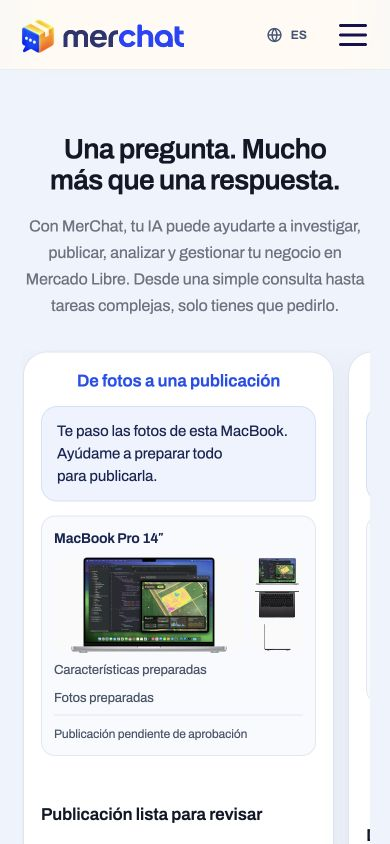
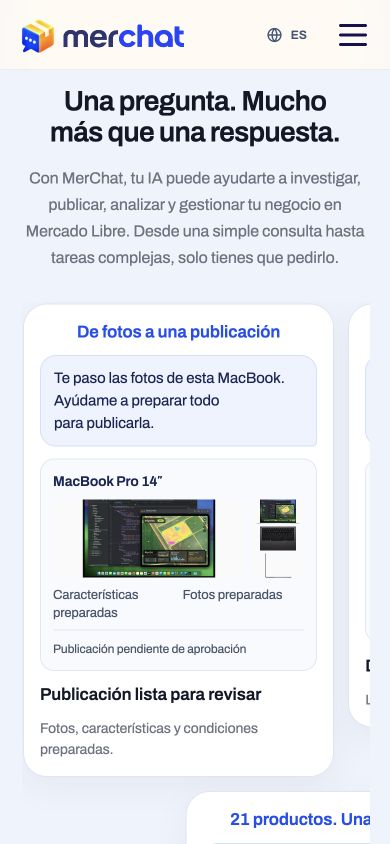
Refine carousel spacing and photo placement

Changed region(s): [[0.0923, 0.4313, 0.9538, 1.0], [0.0615, 0.0924, 0.9538, 0.4005], [0.9231, 0.7701, 0.9538, 0.8009]]

diff --git a/app/globals.css b/app/globals.css
@@ -2419,13 +2419,14 @@ body, main { background: var(--bg); }
 #resultados .section-title { max-width: 30ch; margin-bottom: 18px; }
 #resultados .showcase-intro { max-width: 64ch; margin: 0 auto 36px; text-align: center; font-size: 17px; line-height: 1.65; color: var(--muted); text-wrap: pretty; }
 #resultados .showcase-disclaimer { max-width: 72ch; margin: 22px auto 0; text-align: center; font-size: 14px; line-height: 1.55; color: var(--muted); }
-#resultados .carousel-set { grid-auto-columns: 320px; grid-template-rows: repeat(2, minmax(500px, max-content)); padding-right: 169px; }
-#resultados .carousel-set .example-card { width: 320px; padding: 20px; gap: 16px; }
+#resultados .carousel-set { grid-auto-columns: 320px; grid-template-rows: repeat(2, max-content); padding-right: 169px; }
+#resultados .carousel-set .example-card { width: 320px; min-height: 0; padding: 18px; gap: 12px; }
+#resultados .demo-card { align-self: start; }
 #resultados .demo-card > span { padding: 0; font-size: 17px; font-weight: 600; line-height: 1.35; }
-#resultados .example-bubble { padding: 13px 15px; font-size: 15px; line-height: 1.5; }
-#resultados .demo-card > strong { margin-top: auto; font-size: 17px; line-height: 1.35; }
+#resultados .example-bubble { padding: 11px 13px; font-size: 15px; line-height: 1.5; }
+#resultados .demo-card > strong { margin-top: 0; font-size: 17px; line-height: 1.35; }
 #resultados .demo-card > small { font-size: 14px; line-height: 1.5; color: var(--muted); }
-#resultados .cap-preview { display: flex; flex-direction: column; gap: 12px; padding: 14px; border: 1px solid #E1E7F2; border-radius: 14px; background: #F8FAFE; font-size: 14px; line-height: 1.4; color: #172554; }
+#resultados .cap-preview { display: flex; flex-direction: column; gap: 10px; padding: 12px; border: 1px solid #E1E7F2; border-radius: 14px; background: #F8FAFE; font-size: 14px; line-height: 1.4; color: #172554; }
 #resultados .cap-label { font-size: 14px; font-weight: 600; }
 #resultados .cap-items { display: flex; flex-direction: column; gap: 10px; }
 #resultados .cap-item { display: flex; justify-content: space-between; align-items: baseline; gap: 10px; }
@@ -2454,9 +2455,10 @@ body, main { background: var(--bg); }
 #resultados .cap-range { position: relative; height: 16px; margin: 5px 0; background: #E3EAF7; border-radius: 8px; }
 #resultados .cap-range span { position: absolute; left: 10%; right: 30%; top: 0; bottom: 0; border-radius: 8px; background: #B9CEF9; }
 #resultados .cap-range i { position: absolute; left: 87%; top: -4px; height: 24px; width: 3px; border-radius: 2px; background: var(--blue); }
-#resultados .cap-bars { height: 50px; display: flex; align-items: end; gap: 10px; border-bottom: 1px solid #CCD7EB; }
-#resultados .cap-bars i { flex: 1; border-radius: 4px 4px 0 0; background: #AFC6F6; }
-#resultados .cap-bars i:nth-child(4) { background: var(--blue); }
+#resultados .cap-ad-chart { display: grid; grid-template-columns: 1fr 1fr; gap: 5px; font-size: 11px; color: #475569; font-variant-numeric: tabular-nums; }
+#resultados .cap-ad-chart > div { grid-column: 1 / -1; height: 12px; border-radius: 4px; background: #DEE7F7; overflow: hidden; }
+#resultados .cap-ad-chart i { display: block; height: 100%; background: var(--blue); border-radius: 4px; }
+#resultados .cap-ad-chart > span:last-child { text-align: right; }
 #resultados .cap-stock { height: 8px; background: #E4EAF4; border-radius: 6px; overflow: hidden; }
 #resultados .cap-stock span { display: block; width: 21%; height: 100%; background: #D97706; }
 #resultados .cap-product-main { width: 100%; height: 100px; object-fit: cover; border-radius: 9px; }
@@ -2473,8 +2475,8 @@ body, main { background: var(--bg); }
 #resultados .example-photo .photo-overlay strong { font-size: 23px; line-height: 1.25; }
 #resultados .carousel-arrow:focus-visible, #resultados .dots button:focus-visible { outline: 3px solid var(--blue); outline-offset: 5px; }
 @media(max-width:640px) {
-  #resultados .carousel-set { grid-auto-columns: calc(88vw - 32px); padding-right: calc(44vw - 9px); grid-template-rows: repeat(2, minmax(500px, max-content)); }
-  #resultados .carousel-set .example-card { width: calc(88vw - 32px); padding: 17px; gap: 14px; }
+  #resultados .carousel-set { grid-auto-columns: calc(88vw - 32px); padding-right: calc(44vw - 9px); grid-template-rows: repeat(2, max-content); }
+  #resultados .carousel-set .example-card { width: calc(88vw - 32px); padding: 16px; gap: 12px; }
   #resultados .showcase-intro { font-size: 16px; margin-bottom: 28px; }
   #resultados .cap-preview { padding: 12px; font-size: 13px; }
   #resultados .cap-accounts .cap-item { padding: 7px; }
@@ -2484,12 +2486,36 @@ body, main { background: var(--bg); }
 #resultados .showcase-carousel { scroll-snap-type: none; }
 #resultados .cap-listing { gap: 8px; }
 #resultados .cap-product-gallery { display: grid; grid-template-columns: minmax(0, 1fr) 52px; gap: 7px; }
-#resultados .cap-product-main { height: 96px; }
+#resultados .cap-product-main { height: 78px; }
 #resultados .cap-product-photos { flex-direction: column; gap: 3px; }
-#resultados .cap-product-photos img { display: block; height: 30px; }
+#resultados .cap-product-photos img { display: block; height: 24px; }
 #resultados .example-photo .photo-overlay strong { max-width: none; width: auto; }
 #resultados .cap-item { min-width: 0; }
 #resultados .cap-item span { overflow-wrap: anywhere; }
 #resultados .cap-priorities .cap-items { flex-direction: column; }
 #resultados .cap-priorities .cap-item { flex-direction: row; align-items: center; }
 #resultados .cap-priorities .cap-item b { min-width: 22px; }
+
+/* Photos alternate rows at a steady cadence; each reads as a compact visual pause. */
+#resultados .carousel-set .example-photo { align-self: start; height: 360px; min-height: 0; }
+#resultados .cap-listing .cap-items { flex-direction: row; gap: 8px; flex-wrap: wrap; font-size: 13px; }
+#resultados .cap-listing .cap-item { flex: 1; }
+#resultados .cap-diagnosis { background: #FFFBF2; border-color: #ECE1C7; }
+#resultados .cap-diagnosis .cap-label { color: #78350F; }
+#resultados .cap-diagnosis .cap-item { padding: 7px 9px 7px 21px; border-radius: 7px; background: #FFF3D8; }
+#resultados .cap-diagnosis .cap-item::before { left: 9px; top: 14px; }
+#resultados .cap-diagnosis .cap-item-1 { background: #FFF0EC; }
+#resultados .cap-diagnosis .cap-item-1::before { background: #9F1239; }
+#resultados .cap-diagnosis .cap-item-2 { background: #F1F3F7; }
+#resultados .cap-diagnosis .cap-item-2::before { background: #64748B; }
+@media(max-width:640px) {
+  #resultados .carousel-set .example-photo { height: 330px; }
+}
+
+#resultados .cap-price-range .cap-item { flex-direction: row; align-items: center; }
+#resultados .cap-price-range .cap-item b { font-size: 16px; white-space: nowrap; }
+#resultados .cap-price-range .cap-item-1 b { font-size: 21px; color: var(--blue); }
+#resultados .cap-price-range .cap-item span { text-align: right; }
+#resultados .cap-diagnosis .cap-item { flex-direction: row; align-items: center; gap: 8px; }
+#resultados .cap-diagnosis .cap-item b { flex: 0 0 66px; }
+#resultados .cap-diagnosis .cap-item::before { top: 50%; transform: translateY(-50%); }

diff --git a/components/LandingPage.tsx b/components/LandingPage.tsx
@@ -135,7 +135,7 @@ function UseCaseResult({ card }: { card: UseCaseCard }) {
     {card.resultType === "listing" && <><div className="cap-product-gallery"><img className="cap-product-main" src="/images/products/macbook-open.jpg" alt="MacBook Pro 14″" width="240" height="140" loading="lazy" decoding="async" /><ProductPhotos /></div></>}
     {card.resultType === "gallery" ? <><ProductPhotos gallery /><div className="cap-order" aria-hidden="true"><span>1 · 2 · 3 · 4</span><HeroIcon name="arrow" /><b>3 · 1 · 2 · 4</b></div></> : <PreviewItems card={card} />}
     {card.resultType === "price-range" && <div className="cap-range" aria-hidden="true"><span /><i /></div>}
-    {card.resultType === "ads" && <div className="cap-bars" aria-hidden="true">{[38, 72, 48, 88, 60, 43].map((height, index) => <i key={index} style={{ height: `${height}%` }} />)}</div>}
+    {card.resultType === "ads" && <div className="cap-ad-chart" aria-hidden="true"><div><i style={{ width: `${Math.min(100, Math.max(0, Number.parseFloat(card.preview.items[0].value ?? "0")))}%` }} /></div><span>0%</span><span>100%</span></div>}
     {card.resultType === "restock" && <div className="cap-stock" aria-hidden="true"><span /></div>}
     <span className="cap-status">{card.resultType === "promotion" && <HeroIcon name="check" size={15} />}{status}</span>
   </div>;
@@ -150,8 +150,8 @@ function UseCaseDemoCard({ card }: { card: UseCaseCard }) {
 }
 function PhotoDemoCard({ demo }: { demo: (typeof spanishLanding.photoExamples)[number] }) { return <article className="example-card example-photo"><img src={demo.image} alt={demo.alt} width={1122} height={1402} loading="lazy" decoding="async" /><div className="photo-overlay"><span>{demo.eyebrow}</span><strong>{demo.note}</strong></div></article>; }
 function ShowcaseCards({ content, duplicate = false }: { content: ReturnType<typeof getLanding>; duplicate?: boolean }) {
-  // First two columns contain the four strongest workflows. Photos break up later pairs.
-  const photoAfterCase = [3, 5, 8, 11];
+  // Lead with four workflows, then alternate photo breaks between the two rows.
+  const photoAfterCase = [3, 5, 7, 9];
   return <div className="carousel-set" aria-hidden={duplicate || undefined}>{content.useCases.flatMap((card, index) => {
     const photoIndex = photoAfterCase.indexOf(index);
     return [<UseCaseDemoCard card={card} key={card.id} />, ...(photoIndex >= 0 ? [<PhotoDemoCard demo={content.photoExamples[photoIndex]} key={`photo-${photoIndex}`} />] : [])];

diff --git a/docs/carousel-review/README.md b/docs/carousel-review/README.md
@@ -6,6 +6,10 @@ Scope: `#resultados`. The carousel now contains 12 deterministic conversational 
 
 Carousel changes keep dragging, swiping, arrows, four dots and reduced motion. Loop width now measures the distance between duplicated sets, including their gap. Autoplay pauses outside the viewport and during hover, keyboard focus and touch/drag; resume timers respect active interactions. The duplicate set remains `aria-hidden` and contains no interactive controls.
 
+## Final visual refinements
+
+Cards use content-driven heights, tighter preview spacing and outcomes directly beneath their previews. The four lifestyle photos occupy positions 5, 8, 11 and 14, alternating between rows and aligning to each row start. Photos remain shorter visual pauses. Diagnosis previews distinguish the three conditions; the advertising bar reflects the supplied ACOS value rather than arbitrary decorative columns. Final responsive checks passed at all five widths and all four locales at 360px.
+
 ## Validation
 
 - `npm run typecheck`: passed.
